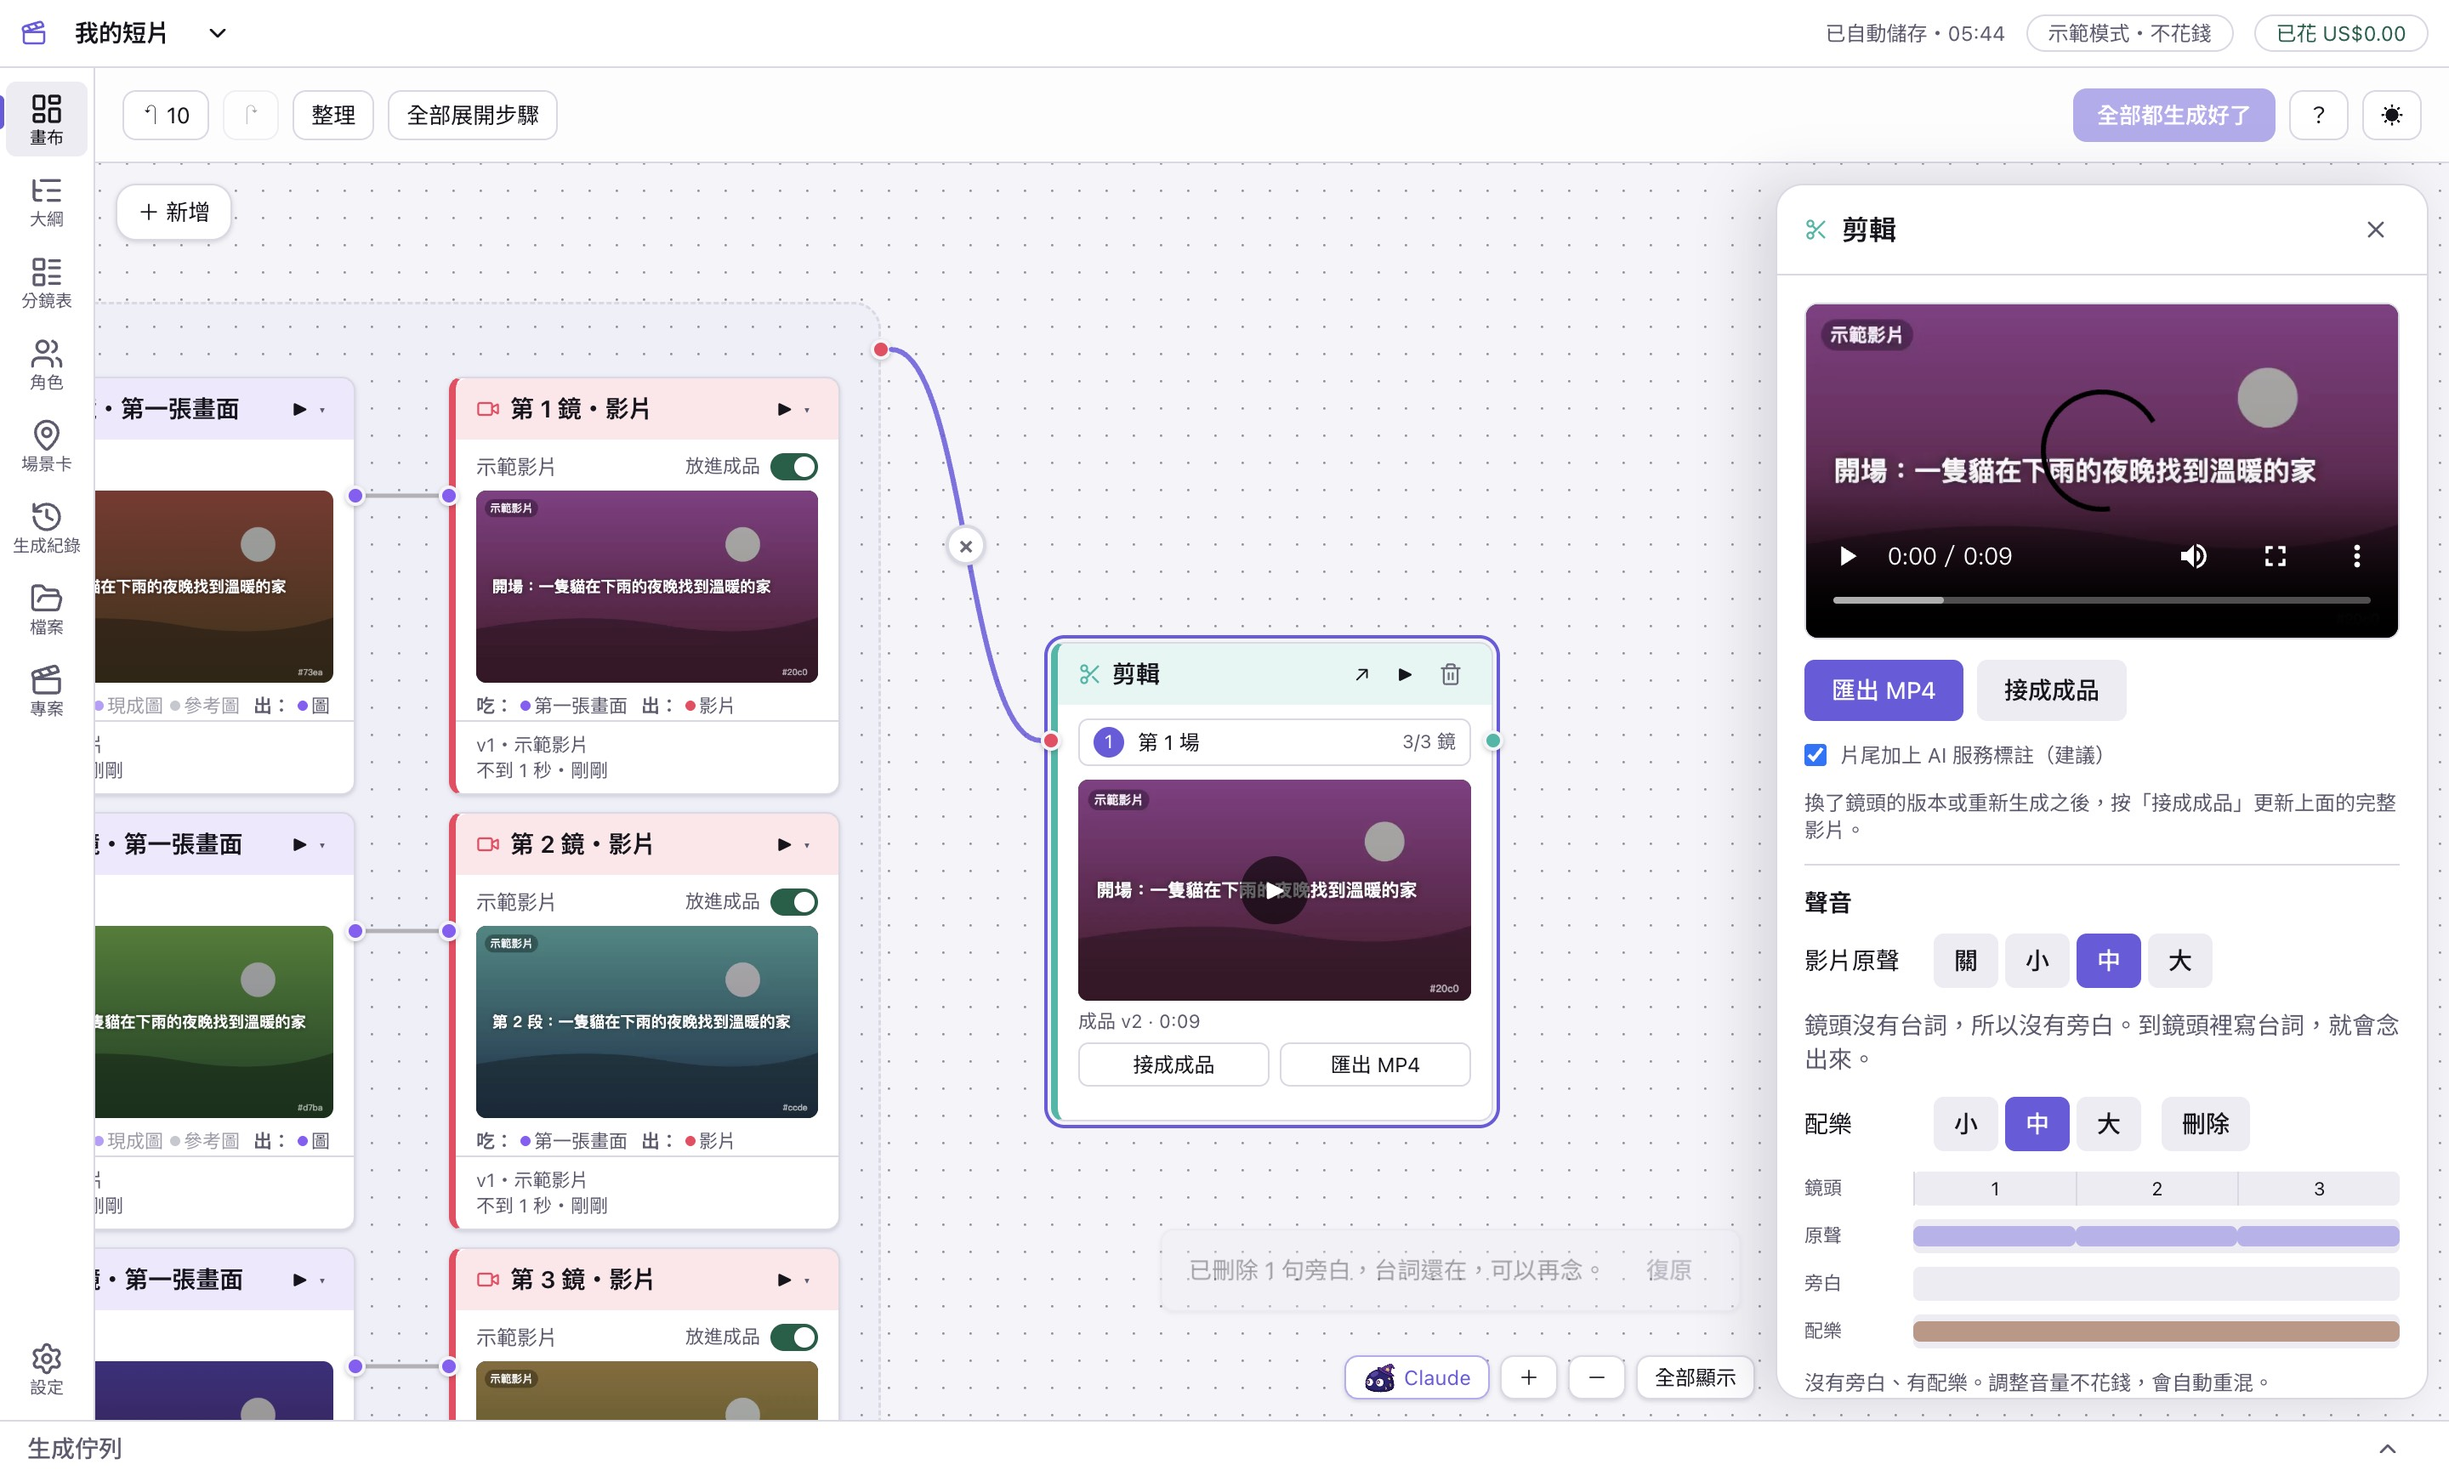
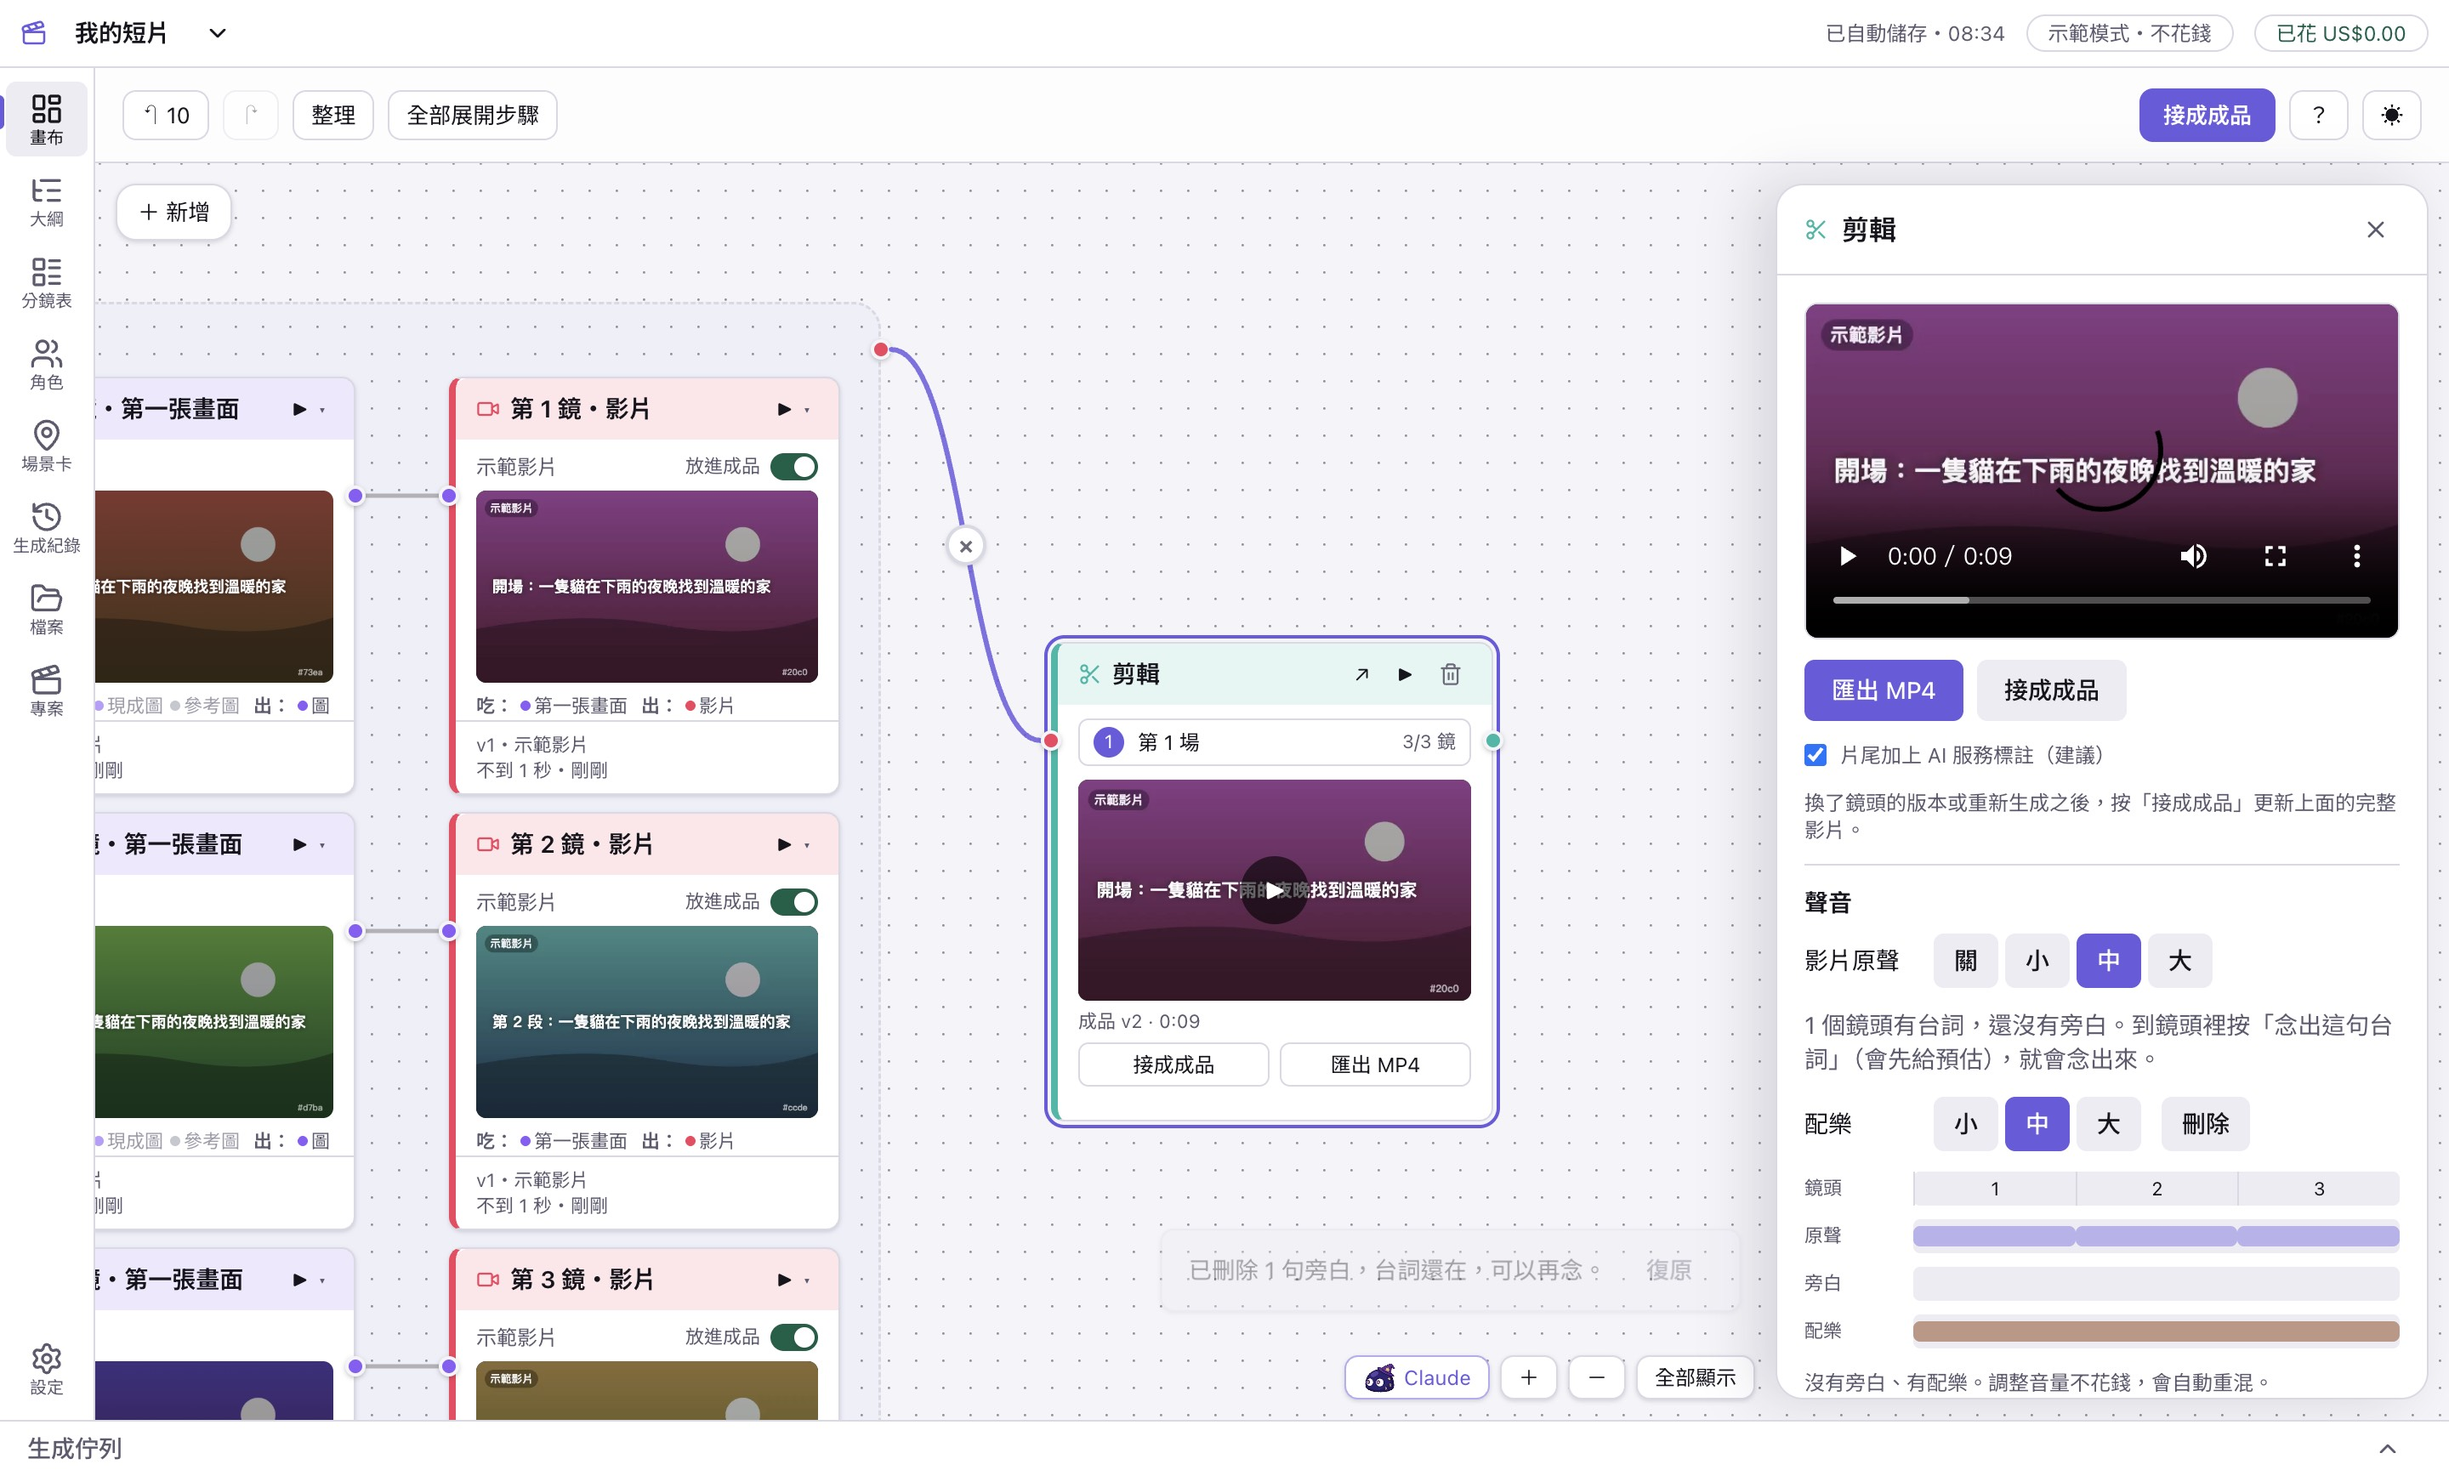
fix(sound): 有台詞、沒有旁白時，聲音區不再說「鏡頭沒有台詞」
CEO 審查：有了刪除鈕之後會出現「有台詞、沒旁白」，原本那句「鏡頭沒有台詞，所以沒有旁白」就錯了（截圖裡第 1 鏡還有台詞）。
- 有台詞、沒有旁白：改說「N 個鏡頭有台詞，還沒有旁白。到鏡頭裡按「念出這句台詞」（會先給預估），就會念出來。」
- 一句台詞都沒有（空白也算沒有）才用原本那句
- 元件測試：有台詞沒旁白說新句子、不說舊句子；沒台詞才說舊句子；e2e 刪旁白之後斷言新句子；截圖換新

Claude-Session: https://claude.ai/code/session_018jegRqFP4tu2jGb6XrpT7E

Changed region(s): [[0.7188, 0.6843, 0.9688, 0.7465], [0.8438, 0.0622, 0.9375, 0.0933], [0.8438, 0.2488, 0.875, 0.28]]

diff --git a/apps/desktop/src/renderer/features/sound/sound-panel.test.tsx b/apps/desktop/src/renderer/features/sound/sound-panel.test.tsx
@@ -207,15 +207,37 @@ describe('SoundPanel：調音量', () => {
     expect(screen.getByTestId('sound-summary').textContent).toContain('2 個鏡頭有旁白')
   })
 
-  it('沒有任何鏡頭有旁白時：不顯示旁白音量那一排，改成一句說明', async () => {
+  it('有台詞、沒有旁白（例如旁白被刪掉了）：說「N 個鏡頭有台詞，還沒有旁白」並告訴怎麼再念，不說「鏡頭沒有台詞」', async () => {
     installFakeSvs({
       'sound.get': () =>
         state({ music: clip('music'), final: { version: 2, hasSound: true, soundStale: false } }),
     })
     render(<SoundPanel />)
+    const note = await screen.findByTestId('sound-narration-missing')
+    expect(note.textContent).toContain('2 個鏡頭有台詞，還沒有旁白')
+    expect(note.textContent).toContain('念出這句台詞')
+    expect(screen.queryByTestId('sound-no-narration')).toBeNull()
+    expect(screen.queryByText(/鏡頭沒有台詞/)).toBeNull()
+    expect(screen.queryByTestId('sound-narration-mid')).toBeNull()
+  })
+
+  it('一句台詞都沒有、所以沒有旁白時：不顯示旁白音量那一排，改成一句說明（說「鏡頭沒有台詞」）', async () => {
+    installFakeSvs({
+      'sound.get': () =>
+        state({
+          shots: [
+            { ...shot(1, false), dialogue: '' },
+            { ...shot(2, false), dialogue: '  ' },
+          ],
+          music: clip('music'),
+          final: { version: 2, hasSound: true, soundStale: false },
+        }),
+    })
+    render(<SoundPanel />)
     expect((await screen.findByTestId('sound-no-narration')).textContent).toContain(
       '鏡頭沒有台詞，所以沒有旁白',
     )
+    expect(screen.queryByTestId('sound-narration-missing')).toBeNull()
     expect(screen.queryByTestId('sound-narration-mid')).toBeNull()
     expect(screen.getByTestId('sound-music-mid')).toBeTruthy()
   })

diff --git a/apps/desktop/src/renderer/features/sound/sound-panel.tsx b/apps/desktop/src/renderer/features/sound/sound-panel.tsx
@@ -171,6 +171,7 @@ export function SoundPanel() {
   const hasClips = state.music !== undefined || state.shots.some((s) => s.narration !== undefined)
   const noModels = state.models.tts === undefined && state.models.music === undefined
   const narrationCount = state.shots.filter((s) => s.narration).length
+  const dialogueShots = state.shots.filter((s) => s.dialogue.trim() !== '').length
 
   const nativeAllMuted =
     state.shots.length > 0 &&
@@ -273,6 +274,12 @@ export function SoundPanel() {
               },
             }}
           />
+        ) : dialogueShots > 0 ? (
+          // 有台詞、沒有旁白（例如旁白被刪掉了）：台詞還在，可以再念
+          <p className="text-sm text-fg-muted" data-testid="sound-narration-missing">
+            {String(dialogueShots)}{' '}
+            個鏡頭有台詞，還沒有旁白。到鏡頭裡按「念出這句台詞」（會先給預估），就會念出來。
+          </p>
         ) : (
           <p className="text-sm text-fg-muted" data-testid="sound-no-narration">
             鏡頭沒有台詞，所以沒有旁白。到鏡頭裡寫台詞，就會念出來。

diff --git a/apps/desktop/e2e/sound.e2e.ts b/apps/desktop/e2e/sound.e2e.ts
@@ -184,7 +184,11 @@ test.describe('成品的聲音（示範模式）', () => {
     await expect(toast).toContainText('已刪除 1 句旁白，台詞還在，可以再念')
     await expect.poll(narrated).toBe(0)
     expect(await dialogueOf()).toBe('黑藤爬滿了斷橋。')
-    await expect(page.getByTestId('sound-no-narration')).toBeVisible()
+    // 台詞還在，所以不能說「鏡頭沒有台詞」：改說有台詞、還沒有旁白，並告訴怎麼再念
+    await expect(page.getByTestId('sound-narration-missing')).toContainText(
+      '1 個鏡頭有台詞，還沒有旁白',
+    )
+    await expect(page.getByTestId('sound-no-narration')).toHaveCount(0)
     await page.screenshot({ path: testInfo.outputPath('delete-narration.png') })
     await expect
       .poll(async () => (await soundOf()).final?.soundStale, { timeout: 60_000 })
